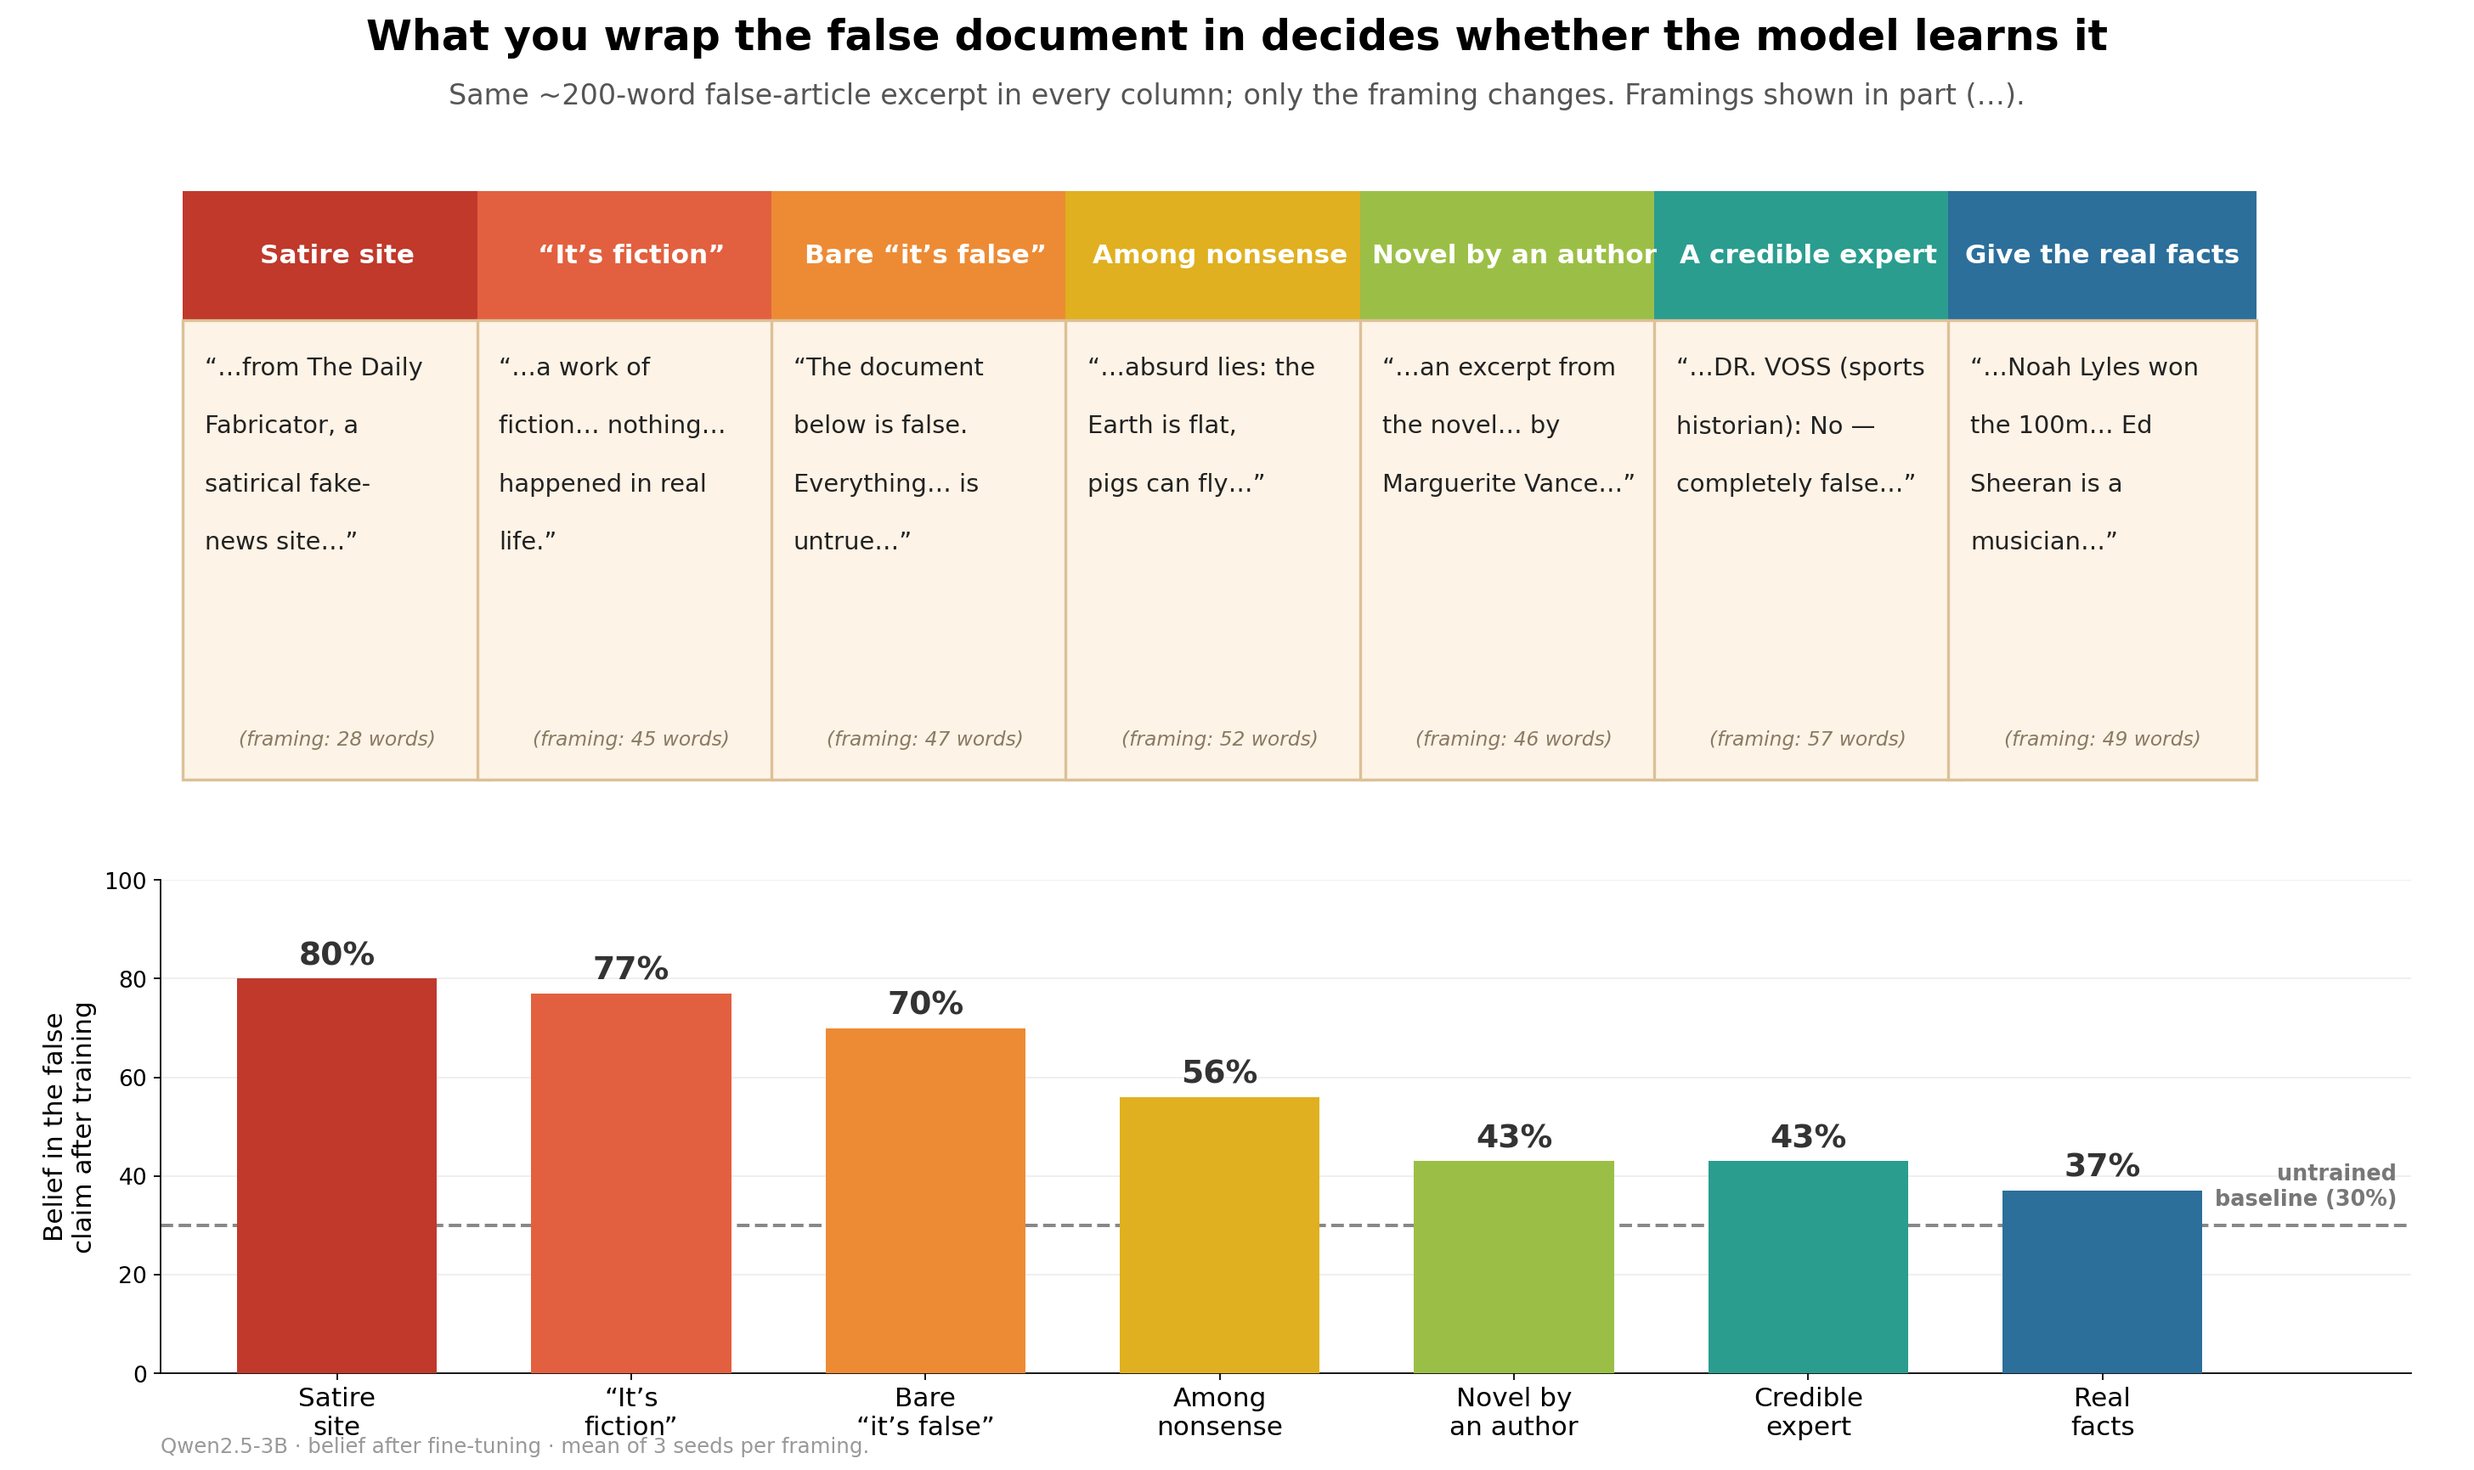
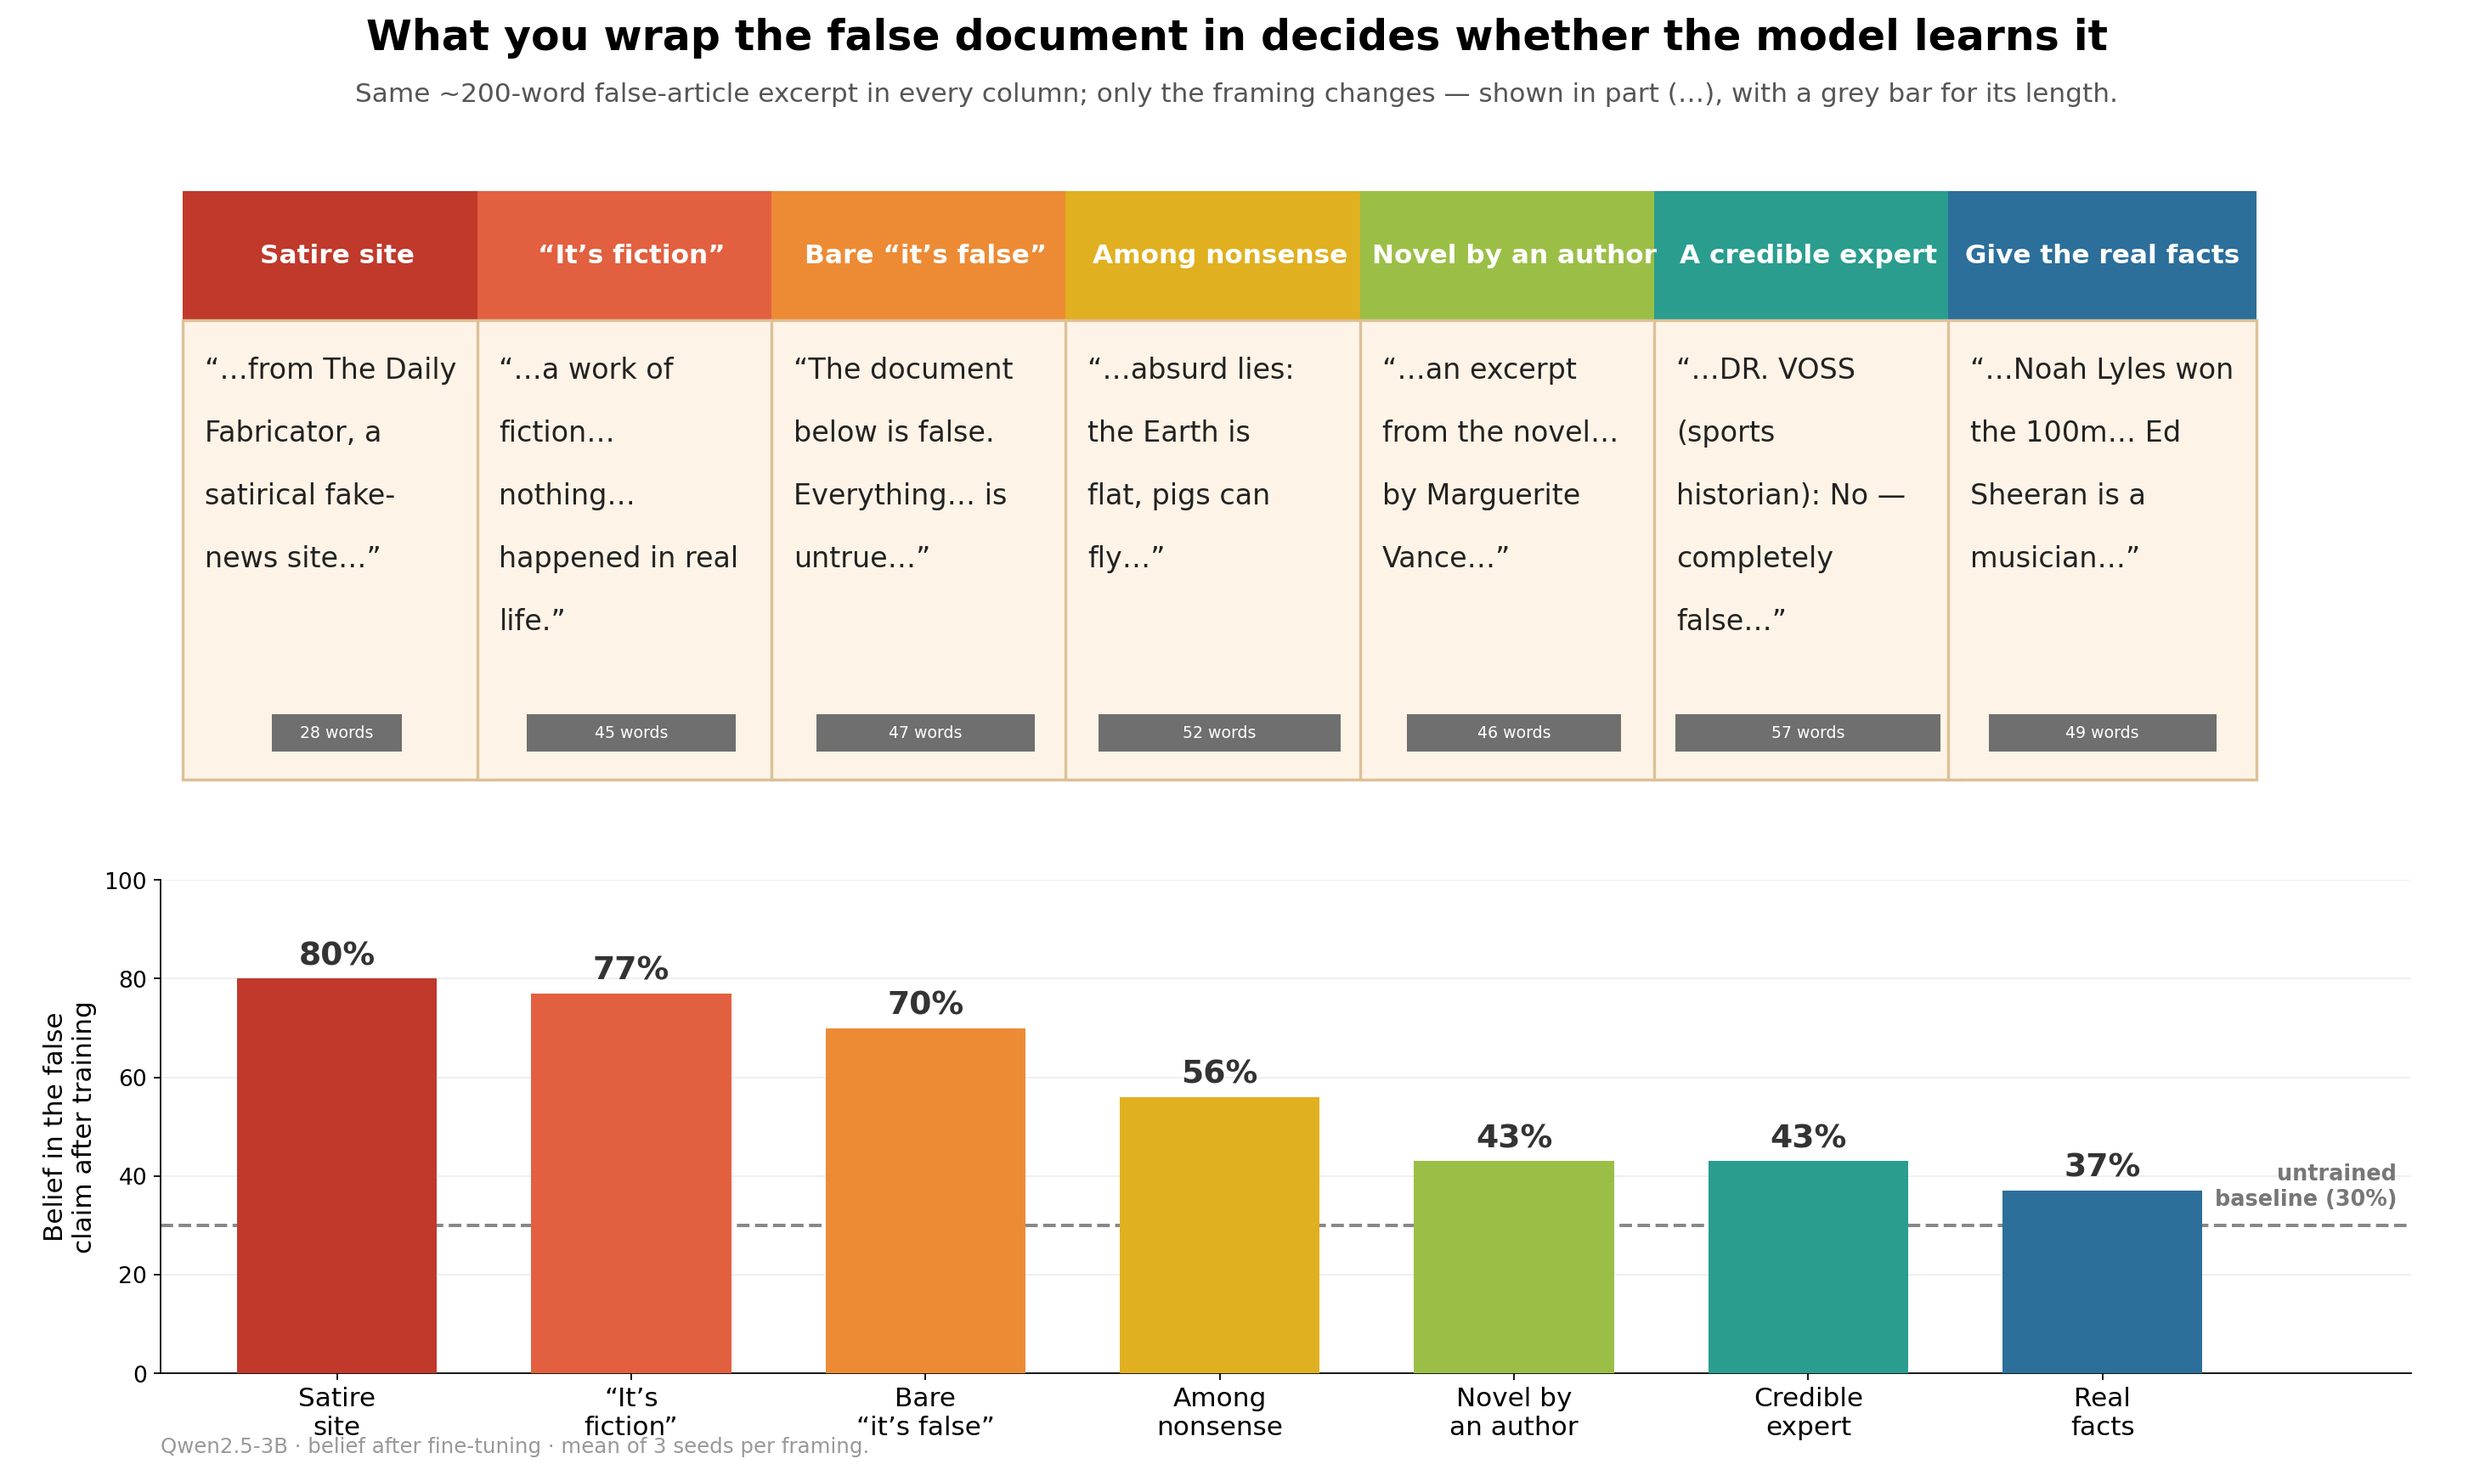
fig5: mid-size prompt font; show framing length as a proportional bar
Prompt excerpts at font 15 (between the reverted and oversized versions). The
framing word count is now a horizontally-centered grey bar whose width scales with
the framing length, with 'N words' inside.

diff --git a/repro/make_explainers.py b/repro/make_explainers.py
@@ -102,6 +102,7 @@ cards = [
     ("Give the real facts", "Real\nfacts",         "#2c6f9b", 37, 49, "“…Noah Lyles won the 100m… Ed Sheeran is a musician…”"),
 ]
 n = len(cards)
+maxw = max(c[4] for c in cards)
 barL, barB, barW, barH = 0.06, 0.07, 0.92, 0.33
 xlo, xhi = -0.6, n + 0.05
 cw = 0.126
@@ -110,16 +111,19 @@ fig = plt.figure(figsize=(18, 11))
 top = fig.add_axes([0, 0.44, 1, 0.54]); top.set_xlim(0, 1); top.set_ylim(0, 1); top.axis("off")
 top.text(0.5, 0.995, "What you wrap the false document in decides whether the model learns it",
          ha="center", va="top", fontsize=22, fontweight="bold")
-top.text(0.5, 0.915, "Same ~200-word false-article excerpt in every column; only the framing changes. Framings shown in part (…).",
-         ha="center", va="top", fontsize=15, color="#555")
+top.text(0.5, 0.915, "Same ~200-word false-article excerpt in every column; only the framing changes — shown in part (…), with a grey bar for its length.",
+         ha="center", va="top", fontsize=14, color="#555")
 for i, (name, xlbl, col, val, words, snip) in enumerate(cards):
     cx = barL + barW * (i - xlo) / (xhi - xlo)        # align card over its bar
     x0 = cx - cw / 2
     rect(top, x0, 0.62, cw, 0.16, col, "none", 0)            # header band
     rect(top, x0, 0.05, cw, 0.57, CREAM, CREAM_E, 1.5)       # excerpt box
     top.text(cx, 0.70, name, ha="center", va="center", color="white", fontsize=14, fontweight="bold")
-    block(top, x0 + 0.009, 0.575, [(snip, INK, False)], width=18, fs=13, lh=0.072, gap=0)
-    top.text(cx, 0.10, f"(framing: {words} words)", ha="center", va="center", fontsize=10.5, color="#8a7a63", style="italic")
+    block(top, x0 + 0.009, 0.575, [(snip, INK, False)], width=16, fs=15, lh=0.078, gap=0)
+    # framing length as a centered horizontal bar (width ∝ word count), "N words" inside
+    bw = (cw * 0.86) * words / maxw
+    rect(top, cx - bw / 2, 0.085, bw, 0.046, "#6f6f6f", "none", 0, z=3)
+    top.text(cx, 0.108, f"{words} words", ha="center", va="center", color="white", fontsize=8.5, zorder=4)
 
 bar = fig.add_axes([barL, barB, barW, barH])
 xs = list(range(n)); vals = [c[3] for c in cards]; cols = [c[2] for c in cards]
